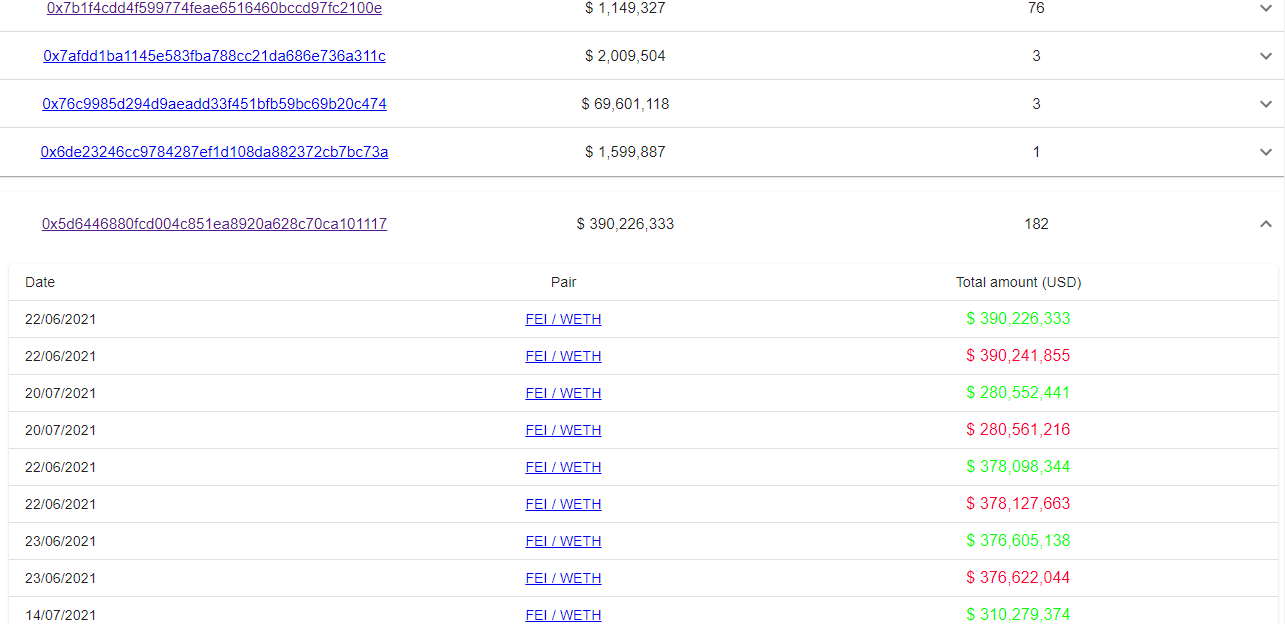
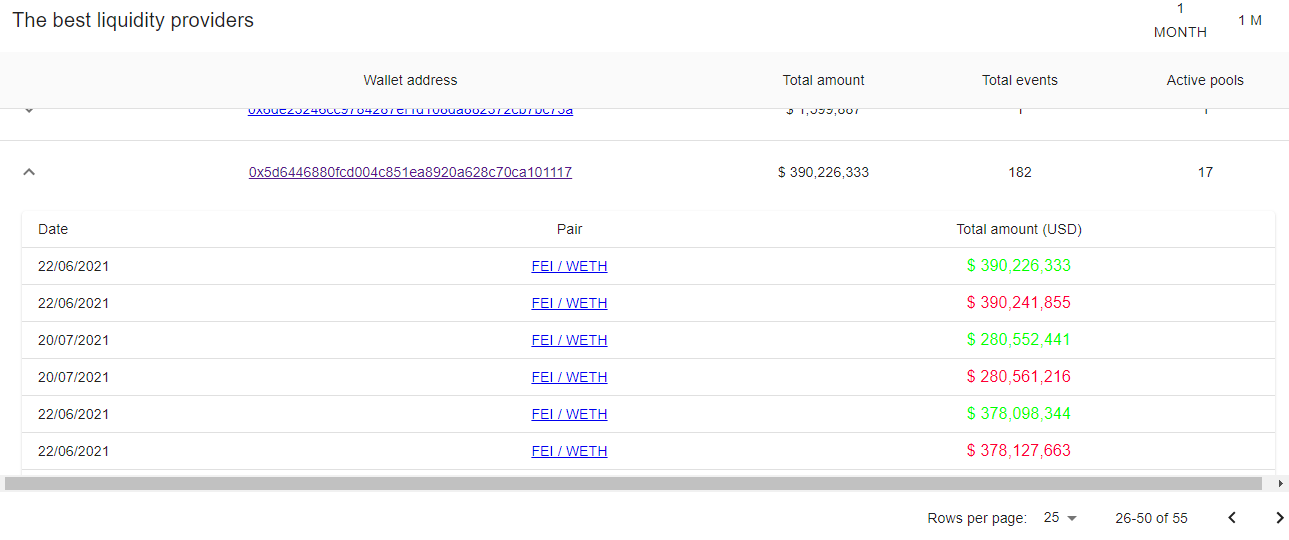
Sticky header, new component SmartRow, and other little bit fixes

diff --git a/src/components/SmartRow.js b/src/components/SmartRow.js
@@ -1,0 +1,72 @@
+import React from 'react';
+import PropTypes from 'prop-types';
+import { makeStyles } from '@material-ui/core/styles';
+import Box from '@material-ui/core/Box';
+import Collapse from '@material-ui/core/Collapse';
+import IconButton from '@material-ui/core/IconButton';
+import Table from '@material-ui/core/Table';
+import TableBody from '@material-ui/core/TableBody';
+import TableCell from '@material-ui/core/TableCell';
+import TableContainer from '@material-ui/core/TableContainer';
+import TableHead from '@material-ui/core/TableHead';
+import TableRow from '@material-ui/core/TableRow';
+import Typography from '@material-ui/core/Typography';
+import Paper from '@material-ui/core/Paper';
+import KeyboardArrowDownIcon from '@material-ui/icons/KeyboardArrowDown';
+import KeyboardArrowUpIcon from '@material-ui/icons/KeyboardArrowUp';
+import AdditionalTable from './AdditionalTable';
+
+const useRowStyles = makeStyles({
+  root: {
+    '& > *': {
+      borderBottom: 'unset',
+    },
+  },
+});
+
+export default function SmartRow(props) {
+  const {name, data, onChange, expanded} = props;
+  const [open, setOpen] = React.useState(true);
+  const classes = useRowStyles();
+
+  const handleChange = (name, open) => {
+    console.log(name, !open);
+    setOpen(!open);
+    onChange(open ? name : false);
+  };
+
+  return (
+    <React.Fragment>
+      <TableRow className={classes.root}>
+        <TableCell>
+          <IconButton aria-label="expand row" size="small" onClick={() => handleChange(name, open)}>
+            {(expanded === name) ? <KeyboardArrowUpIcon /> : <KeyboardArrowDownIcon />}
+          </IconButton>
+        </TableCell>
+        <TableCell align="center">
+          <a href={'https://etherscan.io/address/'+name}>
+            {name}
+          </a>
+        </TableCell>
+        <TableCell align="center">
+          {'$ '+data.totalAmount.toString().split('.')[0].replace(/\B(?=(\d{3})+(?!\d))/g, ",")}
+        </TableCell>
+        <TableCell align="center">
+          {data.data.length}
+        </TableCell>
+        <TableCell align="center">
+          {data.data.length}
+        </TableCell>
+      </TableRow>
+      <TableRow>
+        <TableCell style={{ paddingBottom: 0, paddingTop: 0 }} colSpan={6}>
+          <Collapse in={expanded === name} timeout="auto" unmountOnExit>
+            <Box margin={1}>
+              <AdditionalTable rows={data.data} />
+            </Box>
+          </Collapse>
+        </TableCell>
+      </TableRow>
+    </React.Fragment>
+  );
+}

diff --git a/src/App.js b/src/App.js
@@ -8,11 +8,11 @@ import {
 } from "@apollo/client";
 
 import Paper from '@material-ui/core/Paper';
-import MaterialTable from './MaterialTable'; // компонент для главной таблицы с аккордионами
-import EnhancedTableToolbar from './EnchancedTableToolbar'; // тулбар для главной таблицы 
+import MaterialTable from './components/MaterialTable'; // компонент для главной таблицы с аккордионами
+import EnhancedTableToolbar from './components/EnchancedTableToolbar'; // тулбар для главной таблицы 
 
-import { setTimestamp } from './timeConvert'; // функции для конвертации unix-формата времени в нормальный и 
-import noDup from './Utils'; // функция для формирования объекта данных из данных, полученных при graphQL запросе
+import { setTimestamp } from './utils/timeConvert'; // функции для конвертации unix-формата времени в нормальный и 
+import noDup from './utils/Utils'; // функция для формирования объекта данных из данных, полученных при graphQL запросе
 import useStyles from './styles'; // стили
 
 // запрос к GraphQL для получения событий пополнения ликвидности
@@ -48,6 +48,14 @@ const Mint = gql`
     }
   }
 `;
+
+const headCells = [
+  {id: "Empty", label: "", disablePadding: false},
+  {id: "Adress", label: "Wallet address", disablePadding: false},
+  {id: "Total", label: "Total amount", disablePadding: false},
+  {id: "Count", label: "Total events", disablePadding: false},
+  {id: "Active", label: "Active pools", disablePadding: false},
+]
 
 
 function App() {
@@ -97,7 +105,7 @@ function App() {
         <Paper className={classes.paper}>
           <EnhancedTableToolbar onChange={handleToolbarChanged} />
           {!loading && (
-            <MaterialTable rows = {tableData} classes={classes}>
+            <MaterialTable rows = {tableData} classes={classes} headCells={headCells}>
             </MaterialTable>
             )
           }

diff --git a/src/components/MaterialTable.js b/src/components/MaterialTable.js
@@ -8,14 +8,14 @@ import TablePagination from '@material-ui/core/TablePagination';
 import TableRow from '@material-ui/core/TableRow';
 
 import EnhancedTableHead from './EnchancedTableHead';
-import SmartAccordion from './SmartAccordion';
+import SmartRow from './SmartRow';
 
-import {stableSort, getComparator} from './Utils';
+import {stableSort, getComparator} from '../utils/Utils';
 
 
 export default function MaterialTable(props) {
 
-  const { rows, classes } = props;
+  const { headCells, rows, classes } = props;
 
   const [page, setPage] = React.useState(0);
   const [dense] = React.useState(false);
@@ -31,7 +31,7 @@ export default function MaterialTable(props) {
     setPage(0);
   };
 
-  const handleAccordion = (value) => {
+  const handleRow = (value) => {
 
     setExpanded(value);
     
@@ -41,7 +41,7 @@ export default function MaterialTable(props) {
 
   return (
         <div>
-        <TableContainer>
+        <TableContainer className={classes.container}>
           <Table
             className={classes.table}
             aria-labelledby="tableTitle"
@@ -49,13 +49,14 @@ export default function MaterialTable(props) {
             aria-label="enhanced table"
             stickyHeader
           >
+            <EnhancedTableHead headCells={headCells} />
             <TableBody>
               {Object.entries(rows)
                 .slice(page * rowsPerPage, page * rowsPerPage+rowsPerPage)
                 .map(([row, value]) => {
                   const labelId = `enhanced-table-checkbox-${row}`;
                   return (
-                    <SmartAccordion name={row} onChange={handleAccordion} data={value} expanded={expanded}/>
+                    <SmartRow name={row} onChange={handleRow} data={value} expanded={expanded}/>
                   );
                 })}
               {emptyRows > 0 && (

diff --git a/src/components/EnchancedTableHead.js b/src/components/EnchancedTableHead.js
@@ -9,18 +9,20 @@ export default function EnhancedTableHead(props) {
   const { classes, order, orderBy, rowCount, onRequestSort, headCells } = props;
 
   return (
-    <TableHead>
-      <TableRow>
-        {headCells.map((headCell) => (
-          <TableCell
-            key={headCell.id}
-            align={'center'}
-            padding={headCell.disablePadding ? 'none' : 'normal'}
-          >
-          {headCell.label}
-          </TableCell>
-        ))}
-      </TableRow>
-    </TableHead>
+    <React.Fragment>
+      <TableHead>
+        <TableRow>
+          {headCells.map((headCell) => (
+            <TableCell
+              key={headCell.id}
+              align={'center'}
+              padding={headCell.disablePadding ? 'none' : 'normal'}
+            >
+            {headCell.label}
+            </TableCell>
+          ))}
+        </TableRow>
+      </TableHead>
+    </React.Fragment>
   );
 }

diff --git a/src/components/AdditionalTable.js b/src/components/AdditionalTable.js
@@ -9,7 +9,7 @@ import TableRow from '@material-ui/core/TableRow';
 import Paper from '@material-ui/core/Paper';
 import Typography from '@material-ui/core/Typography';
 
-import unixToNormal from './timeConvert';
+import unixToNormal from '../utils/timeConvert';
 
 const useStyles = makeStyles({
   table: {

diff --git a/src/styles.js b/src/styles.js
@@ -14,6 +14,9 @@ const useStyles = makeStyles((theme) => ({
     minWidth: 750,
     margin: 10,
   },
+  container: {
+    maxHeight: 440,
+  },
   visuallyHidden: {
     border: 2,
     clip: 'rect(0 0 0 0)',

diff --git a/README.md b/README.md
@@ -4,7 +4,9 @@ Uniswap v2
 
 ## Components 
   - MaterialTable - creates the interactive table with props
-    - SmartAccordion - creates the pull-out card with wallet addres and additiona info
+    - SmartAccordion - creates the pull-out card with wallet addres and additiona info *(legacy)*
+      - AdditionalTable - creates the table with the mint data of this liquidity provider
+    - SmartRow - creates the pull-out card with wallet addres and additiona info *(used)*
       - AdditionalTable - creates the table with the mint data of this liquidity provider
   - EnchancedTableToolbar - creates toolbar with min amount and period selectors
     
@@ -28,6 +30,9 @@ U can test the demo in https://60f32acfb66d4b5a0003c781--amazing-benz-3fd575.net
   - [x] Let user change the period (1 month, ...)
   - [x] Let user changes the amount
   - [x] The "mint" list to each liquidity provider
-  - [X] Deploy and fun
+  - [x] Deploy and fun
+  - [x] New fields in the addtional table
+  - [x] Sticky header of the table
+  - [x] Add the burn events (now: green - mints, red - burns)
   - [ ] Prettify the code, and add some comments
   - [ ] Redesign the UI
